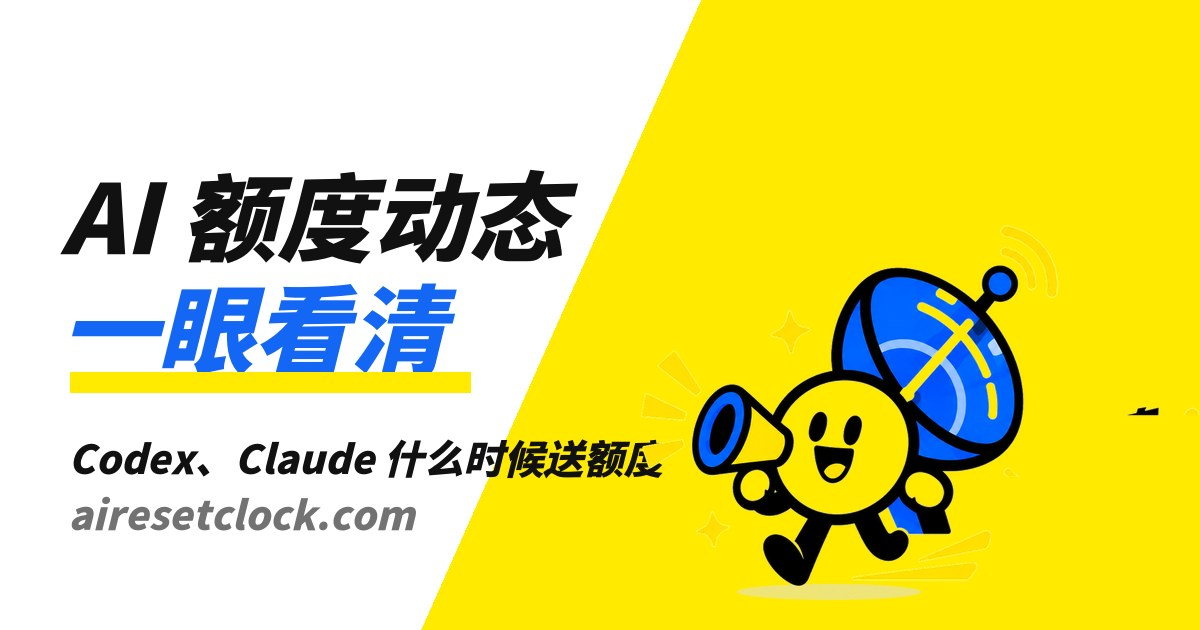
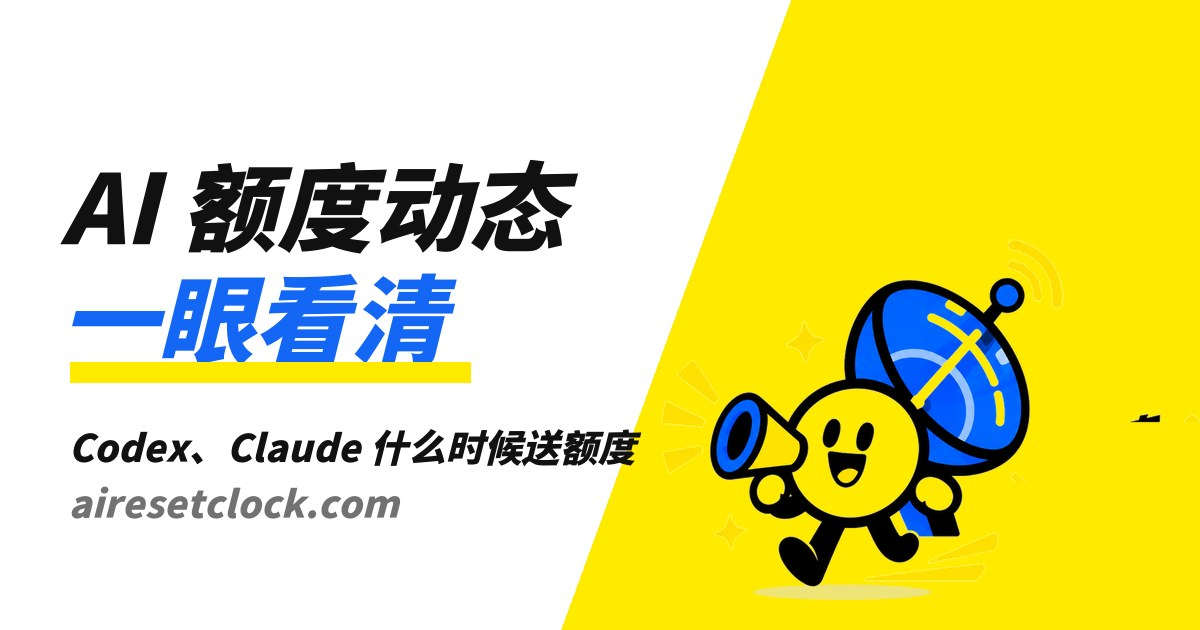
首页标题改问句式、分享图修版式、上线体检与增长方案文档

Changed region(s): [[0.0308, 0.0, 0.8942, 1.0], [0.925, 0.6333, 1.0, 0.6937]]

diff --git a/docs/plans/2026-09-25-上线体检与增长方案.md b/docs/plans/2026-09-25-上线体检与增长方案.md
@@ -1,0 +1,65 @@
+# 额度雷达 · 上线体检与增长方案（2026-09-25 凌晨）
+
+## 一、体检结果（线上实测）
+| 项 | 结果 | 处理 |
+|---|---|---|
+| Lighthouse 手机端 | 性能 100 / SEO 100 / 最佳实践 100 / 无障碍 95 | 无障碍两处对比度已修 → 应为 100 |
+| 首屏 | LCP 1.2s，CLS 0，总 267KB | 小人图 PNG 253–332KB → WebP 77–102KB，已换 |
+| http→https、/index.html、尾斜杠 | 均 308 正确 | — |
+| www.airesetclock.com | 之前 200 不跳转（重复内容） | 已加 308 → 主域名 |
+| 404 | 之前是 Vercel 默认英文页 | 已做自定义 404 |
+| canonical / hreflang / sitemap(26) / robots / 结构化数据 | 齐全 | — |
+| og:image | 之前是透明小人图，分享出去一团白 | 已做 1200×630 分享图（微信/X/飞书都认） |
+| 内链 | 29 条，0 坏链 | — |
+| 收录 | 谷歌/必应/百度 均未收录（站龄 1 天） | IndexNow 已推 26 页（必应/Yandex 数小时内）；谷歌与百度要你开账号 |
+| 事实准确性 | FAQ 有一处错：重置卡「只恢复周额度」 | 已按 OpenAI 帮助中心改：两个桶都刷新并改周重置日；补「付费即时重置」条目 |
+| 统计 | **没有任何访问统计** | 待你开账号（见下） |
+| 稳定性 | 哨兵跑在你 Mac 上，合盖即停 | 建议上 GitHub Actions（见下） |
+
+## 二、产品还没完善的地方（按对外宣发的优先级）
+### 必须做完才宣发
+1. **关于页 + 联系方式**：现在没有「谁做的、为什么做、怎么联系」。陌生人判断可信度第一眼看这个。一页即可：作者一句话、数据规则三句、邮箱/公众号。
+2. **「数据更新于」回到页脚**：规范把它删了，但它是可信度核心。我定加回，一行小字。
+3. **自动收录的模板句清零**：宣发前所有 confidence=auto 的条目补好中文，别让「原文待整理」被截图。
+4. **访问统计**：不知道有多少人来、从哪来，等于闭眼开车。Vercel Web Analytics 在项目面板一键开（国内可能被拦），另开百度统计。两个都要你的账号。
+
+### 宣发后一周内
+5. **单条事件页 /e/<id>**：每次送额度一个页面，标题「9月23日 Codex 发放重置卡（Plus/Pro/Business）」。这是长尾搜索和转发的落点，首页拿不到长尾。
+6. **邮件订阅**：需要你开一个邮件服务账号。候选 Buttondown（RSS 自动发信）或 Kit，我没实测，开了账号我接。
+7. **哨兵上云**：GitHub Actions 定时任务免费（公开仓库不限时长，私有仓库每月 2000 分钟够用），10 分钟一次，24 小时不断，不依赖你的 Mac。密钥放仓库 secrets。
+8. **国内镜像**：Vercel 现在能开，但随时可能被拦。你有公司主体，可备案后放腾讯云静态托管做国内镜像，百度也爬得更勤。
+
+### 可以放着
+- 登录、付费、微信群推送（第三刀，订阅过 200 再说）。
+- 质量评分、概率预测：永远不做。
+
+## 三、怎么被搜到
+### 现实
+- 中文「codex 什么时候重置」：首页是知乎、CSDN、火山引擎、新浪财经的文章，没有实时站。机会在「实时 + 可核验」，但新域名没有权重，得靠外链和内容页。
+- 英文「when does codex reset」：OpenAI 帮助中心 + 两个同类站 + 一批攻略博客占满，短期别投入。
+- 技术 SEO 已经满分，接下来全是「内容 + 外链 + 提交」的活。
+
+### 按效果排序
+1. **搜索引擎提交（你开账号，我做配置）**
+   - Google Search Console：添加资源 airesetclock.com，选 DNS 验证，把 TXT 记录发我，我用 DNSPod 加上；然后提交 sitemap。
+   - 百度站长平台：同样 DNS/文件验证，提交 sitemap，开「普通收录」推送接口给我 token，我接进发布脚本。
+   - 必应：IndexNow 已通，Bing Webmaster 可用 GSC 一键导入。
+2. **在事发现场回复**：Tibo 每条重置帖下几千人问「Plus 有吗」「怎么用」。用英文回复一句「分类整理在这里」附链接，中国用户看到中文站。这是零成本精准流量，每次发卡做一次。
+3. **中文社区首发（选下一次官方送额度当天）**：Linux.do、V2EX、即刻、知乎「如何看待 Codex 多次重置使用额度」问题下答题。一次即可，别刷。
+4. **内容页做长尾**：单条事件页（上面第 5 条）+ 每次事件自动生成一段公众号/知乎短文，标题就用问句。
+5. **外链互换**：给 DidReset / WhenReset 发邮件互链（我们引用了它们的线索）；给写过 Codex 攻略的中文博主发一封。新浪财经在转 Tibo 的推文，说明媒体有需求，可作为供稿对象。
+6. **标题改问句式**：首页标题已改为「Codex 什么时候重置？Claude 额度什么时候恢复？」，和用户搜索词一致。这条和 UI 规范第 46 节冲突，我定改。
+
+## 四、你可能还不知道的
+- OpenAI 现在**卖**即时重置：Plus/Pro 桌面端用量设置里能买，立刻生效、不能存，之后周重置日按你下一次请求起算 7 天。FAQ 已加。
+- 重置卡用掉是 5 小时窗 + 周额度一起刷新，并且改你的周重置日期，客服不补发过期卡。
+- Vercel Hobby 套餐条款禁止商业用途。现在纯引流站算灰色，一旦挂公司产品建议升 Pro（$20/月）。
+- GitHub Actions 能免费当 24 小时哨兵，不用买服务器。
+- IndexNow 是必应/Yandex 的即时收录协议，一个 key 文件加一次 POST，已经接在发布脚本里。
+
+## 五、需要你做的（按顺序）
+1. 开 Google Search Console 和百度站长平台，把验证用的 TXT 记录或 token 发我。
+2. 在 Vercel 项目面板打开 Web Analytics；开一个百度统计账号把代码发我。
+3. 决定关于页的三件事：署名用什么名字、联系方式放什么、要不要放公众号二维码。
+4. 邮件订阅要不要现在开账号（Buttondown 或 Kit）。
+5. 同意的话我把哨兵挪到 GitHub Actions（需要建一个 GitHub 仓库，公开或私有你定）。
